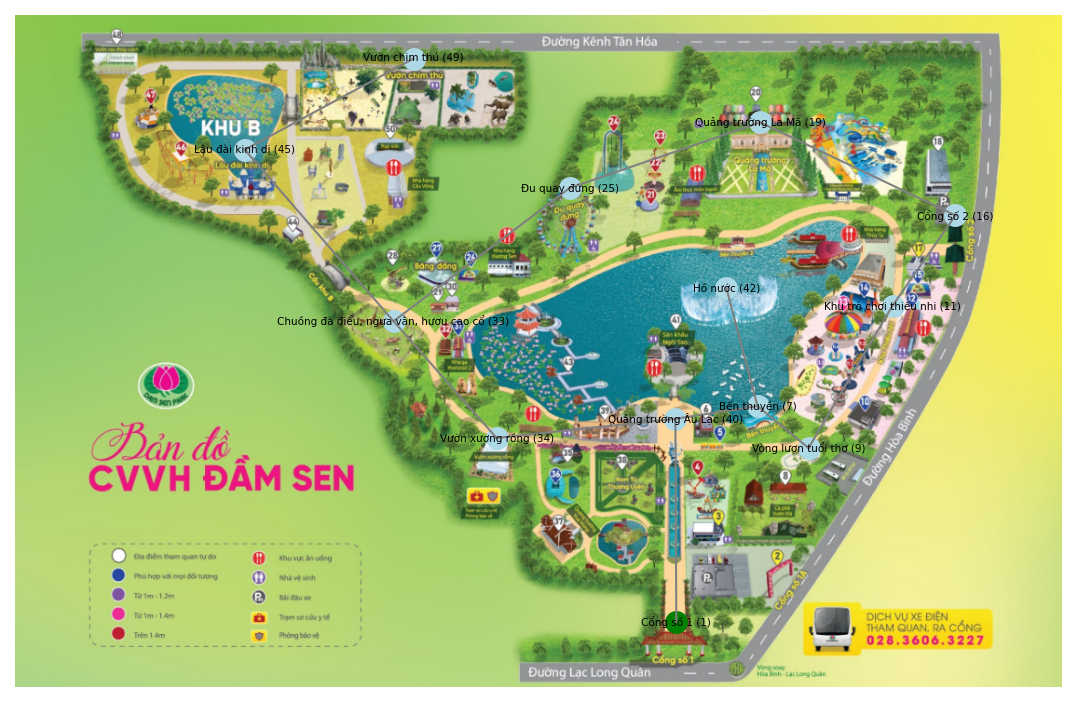
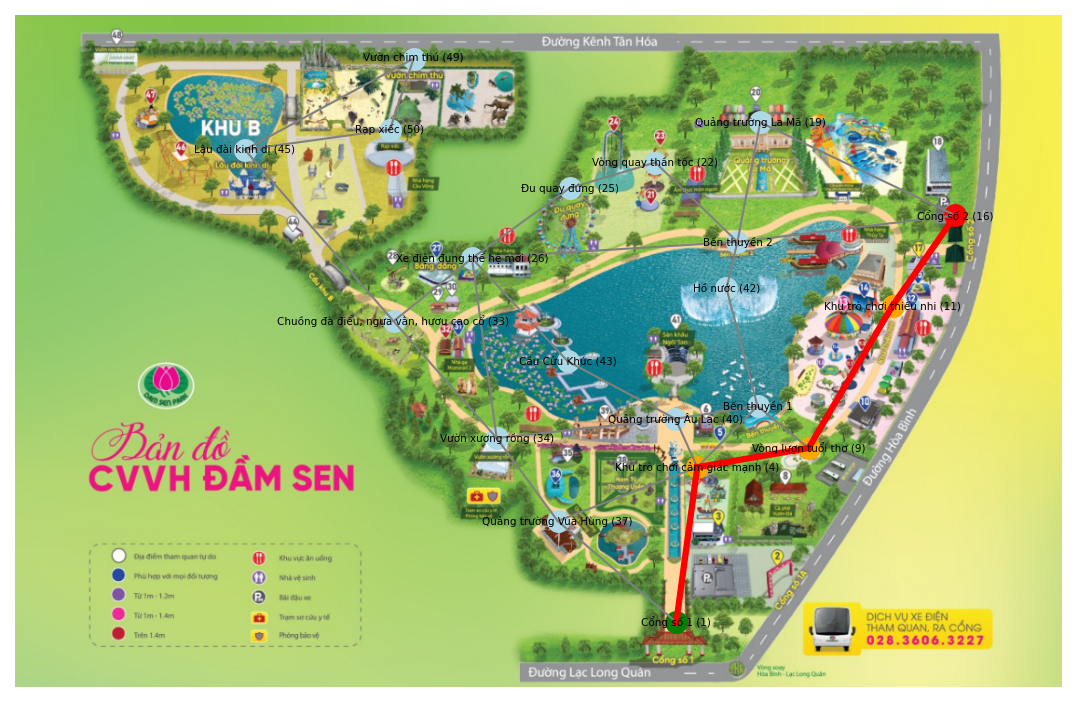
Them diem vao tour

diff --git a/data.py b/data.py
@@ -5,19 +5,36 @@ G = nx.Graph()
 
 # Các cạnh và khoảng cách
 edges = [
-    ("Cổng số 1 (1)", "Quảng trường Âu Lạc (40)", 223.0),
-    ("Quảng trường Âu Lạc (40)", "Vườn xương rồng (34)", 197.1),
-    ("Quảng trường Âu Lạc (40)", "Bến thuyền (7)", 91.1),
-    ("Bến thuyền (7)", "Vòng lượn tuổi thơ (9)", 72.5),
-    ("Hồ nước (42)", "Bến thuyền (7)", 133.4),                      
-    ("Vòng lượn tuổi thơ (9)", "Khu trò chơi thiếu nhi (11)", 181.1),
+    ("Cổng số 1 (1)", "Khu trò chơi cảm giác mạnh (4)", 171.5),
+    ("Cổng số 1 (1)", "Quảng trường Vua Hùng (37)", 170.9),
     ("Cổng số 2 (16)", "Khu trò chơi thiếu nhi (11)", 120.7),
     ("Cổng số 2 (16)", "Quảng trường La Mã (19)", 237.1),
-    ("Đu quay đứng (25)", "Quảng trường La Mã (19)", 221.1),
-    ("Đu quay đứng (25)", "Chuồng đà điểu, ngựa vằn, hươu cao cổ (33)", 242.0),
+    ("Cổng số 2 (16)", "Bến thuyền 2", 240.8),
+    ("Quảng trường Âu Lạc (40)", "Vườn xương rồng (34)", 197.1),
+    ("Quảng trường Âu Lạc (40)", "Bến thuyền 1", 91.1),
+    ("Quảng trường Âu Lạc (40)", "Cầu Cửu Khúc (43)", 133.8),
+    ("Quảng trường Âu Lạc (40)", "Khu trò chơi cảm giác mạnh (4)", 58.2),
+    ("Bến thuyền 1", "Vòng lượn tuổi thơ (9)", 72.5),
+    ("Bến thuyền 1", "Hồ nước (42)", 133.4),       
     ("Vườn xương rồng (34)", "Chuồng đà điểu, ngựa vằn, hươu cao cổ (33)", 170.7),
+    ("Vườn xương rồng (34)", "Quảng trường Vua Hùng (37)", 113.0),
+    ("Vườn xương rồng (34)", "Xe điện đụng thế hệ mới (26)", 198.8),
     ("Lâu đài kinh dị (45)", "Chuồng đà điểu, ngựa vằn, hươu cao cổ (33)", 248.8),
     ("Lâu đài kinh dị (45)", "Vườn chim thú (49)", 210.3),
+    ("Lâu đài kinh dị (45)", "Rạp xiếc (50)", 160.5),   
+    ("Xe điện đụng thế hệ mới (26)", "Chuồng đà điểu, ngựa vằn, hươu cao cổ (33)", 110.3),
+    ("Xe điện đụng thế hệ mới (26)", "Cầu Cửu Khúc (43)", 154.3),
+    ("Xe điện đụng thế hệ mới (26)", "Đu quay đứng (25)", 131.8),
+    ("Xe điện đụng thế hệ mới (26)", "Bến thuyền 2", 291.6),
+    ("Bến thuyền 2", "Hồ nước (42)", 52.4),
+    ("Bến thuyền 2", "Quảng trường La Mã (19)", 133.4),
+    ("Bến thuyền 2", "Vòng quay thần tốc (22)", 125.2),
+    ("Vườn chim thú (49)", "Rạp xiếc (50)", 82.2),
+    ("Đu quay đứng (25)", "Vòng quay thần tốc (22)", 98.1),
+    ("Vòng lượn tuổi thơ (9)", "Khu trò chơi thiếu nhi (11)", 181.1),
+    ("Khu trò chơi cảm giác mạnh (4)", "Quảng trường Vua Hùng (37)", 163.9),
+    ("Khu trò chơi cảm giác mạnh (4)", "Bến thuyền 1", 94.0),
+    ("Khu trò chơi cảm giác mạnh (4)", "Vòng lượn tuổi thơ (9)", 123.8),
 ]
 
 G.add_weighted_edges_from(edges)
@@ -26,15 +43,25 @@ G.add_weighted_edges_from(edges)
 positions = {
     "Cổng số 1 (1)": (725, 666),
     "Cổng số 2 (16)": (1031, 220),
+
     "Hồ nước (42)": (780, 300),
-    "Bến thuyền (7)": (814, 429),
-    "Vườn chim thú (49)": (437, 48),
-    "Khu trò chơi thiếu nhi (11)": (962, 319),
-    "Quảng trường La Mã (19)": (817, 118),
-    "Lâu đài kinh dị (45)": (252, 148),
     "Vườn xương rồng (34)": (528, 464),
-    "Đu quay đứng (25)": (608, 190),
-    "Quảng trường Âu Lạc (40)":(724, 443),
-    "Vòng lượn tuổi thơ (9)":(870, 475),
     "Chuồng đà điểu, ngựa vằn, hươu cao cổ (33)":(415, 336),
+    "Cầu Cửu Khúc (43)":(606, 380),
+    "Vườn chim thú (49)": (437, 48),
+
+    "Đu quay đứng (25)": (608, 190),
+    "Lâu đài kinh dị (45)": (252, 148),
+    "Xe điện đụng thế hệ mới (26)":(501, 267),
+    "Khu trò chơi cảm giác mạnh (4)":(748, 496),
+    "Vòng quay thần tốc (22)":(702, 162),
+    "Quảng trường La Mã (19)": (817, 118),
+
+    "Bến thuyền 1": (814, 429),
+    "Bến thuyền 2": (792, 249),
+    "Rạp xiếc (50)":(411, 126),
+    "Vòng lượn tuổi thơ (9)":(870, 475),
+    "Khu trò chơi thiếu nhi (11)": (962, 319),  
+    "Quảng trường Âu Lạc (40)":(724, 443),
+    "Quảng trường Vua Hùng (37)":(595, 555),    
 }

diff --git a/ai_suggester.py b/ai_suggester.py
@@ -5,26 +5,34 @@ def suggest_path_from_description(user_input):
         return [
             "Cổng số 1 (1)",
             "Hồ nước (42)",
-            "Bến thuyền (7)",
             "Vườn xương rồng (34)",
+            "Chuồng đà điểu, ngựa vằn, hươu cao cổ (33)",
+            "Cầu Cửu Khúc (43)",
             "Vườn chim thú (49)"
-        ], "Tour thư giãn - Cảnh đẹp"
+        ], "📷 Tour thư giãn - Cảnh đẹp thiên nhiên"
 
     elif any(keyword in user_input for keyword in ["cảm giác mạnh", "hồi hộp", "mạo hiểm"]):
         return [
             "Cổng số 2 (16)",
             "Đu quay đứng (25)",
             "Lâu đài kinh dị (45)",
+            "Xe điện đụng thế hệ mới (26)",
+            "Khu trò chơi cảm giác mạnh (4)",
+            "Vòng quay thần tốc (22)",
             "Quảng trường La Mã (19)"
-        ], "Tour cảm giác mạnh"
+        ], "🎢 Tour cảm giác mạnh - Mạo hiểm"
 
     elif any(keyword in user_input for keyword in ["trẻ em", "thiếu nhi", "gia đình"]):
         return [
             "Cổng số 2 (16)",
             "Khu trò chơi thiếu nhi (11)",
-            "Bến thuyền (7)",
-            "Hồ nước (42)"
-        ], "Tour gia đình - Thiếu nhi"
+            "Bến thuyền 1",
+            "Hồ nước (42)",
+            "Rạp xiếc (50)",
+            "Bến thuyền 2",
+            "Vòng lượn tuổi thơ (9)"
+        ], "👨👩👧👦 Tour gia đình - Thiếu nhi"
 
     else:
-        return [], "Không nhận diện được chủ đề phù hợp. Vui lòng nhập lại rõ hơn nhé!"
+        return [], "⚠ Không nhận diện được chủ đề phù hợp. Vui lòng nhập lại rõ hơn nhé!"
+

diff --git a/streamlit_app.py b/streamlit_app.py
@@ -89,14 +89,19 @@ options = st.multiselect(
 # Định nghĩa tuyến mẫu
 tour_suggestions = {
     "📷 Thư giãn - Cảnh đẹp thiên nhiên": [
-        "Hồ nước (42)", "Bến thuyền (7)",
-        "Vườn xương rồng (34)", "Chuồng đà điểu, ngựa vằn, hươu cao cổ (33)"
+        "Hồ nước (42)", 
+        "Vườn xương rồng (34)", "Chuồng đà điểu, ngựa vằn, hươu cao cổ (33)",
+        "Cầu Cửu Khúc (43)", "Vườn chim thú (49)"
     ],
     "🎢 Cảm giác mạnh - Mạo hiểm": [
-         "Đu quay đứng (25)", "Lâu đài kinh dị (45)", "Quảng trường La Mã (19)"
+        "Đu quay đứng (25)", "Lâu đài kinh dị (45)", 
+        "Xe điện đụng thế hệ mới (26)", "Khu trò chơi cảm giác mạnh (4)",
+        "Vòng quay thần tốc (22)", "Quảng trường La Mã (19)"
     ],
     "👨👩👧👦 Gia đình - Thiếu nhi": [
-       "Khu trò chơi thiếu nhi (11)", "Bến thuyền (7)", "Hồ nước (42)"
+        "Khu trò chơi thiếu nhi (11)", "Bến thuyền 1",
+        "Hồ nước (42)", "Rạp xiếc (50)",
+        "Bến thuyền 2", "Vòng lượn tuổi thơ (9)"
     ]
 }
 
